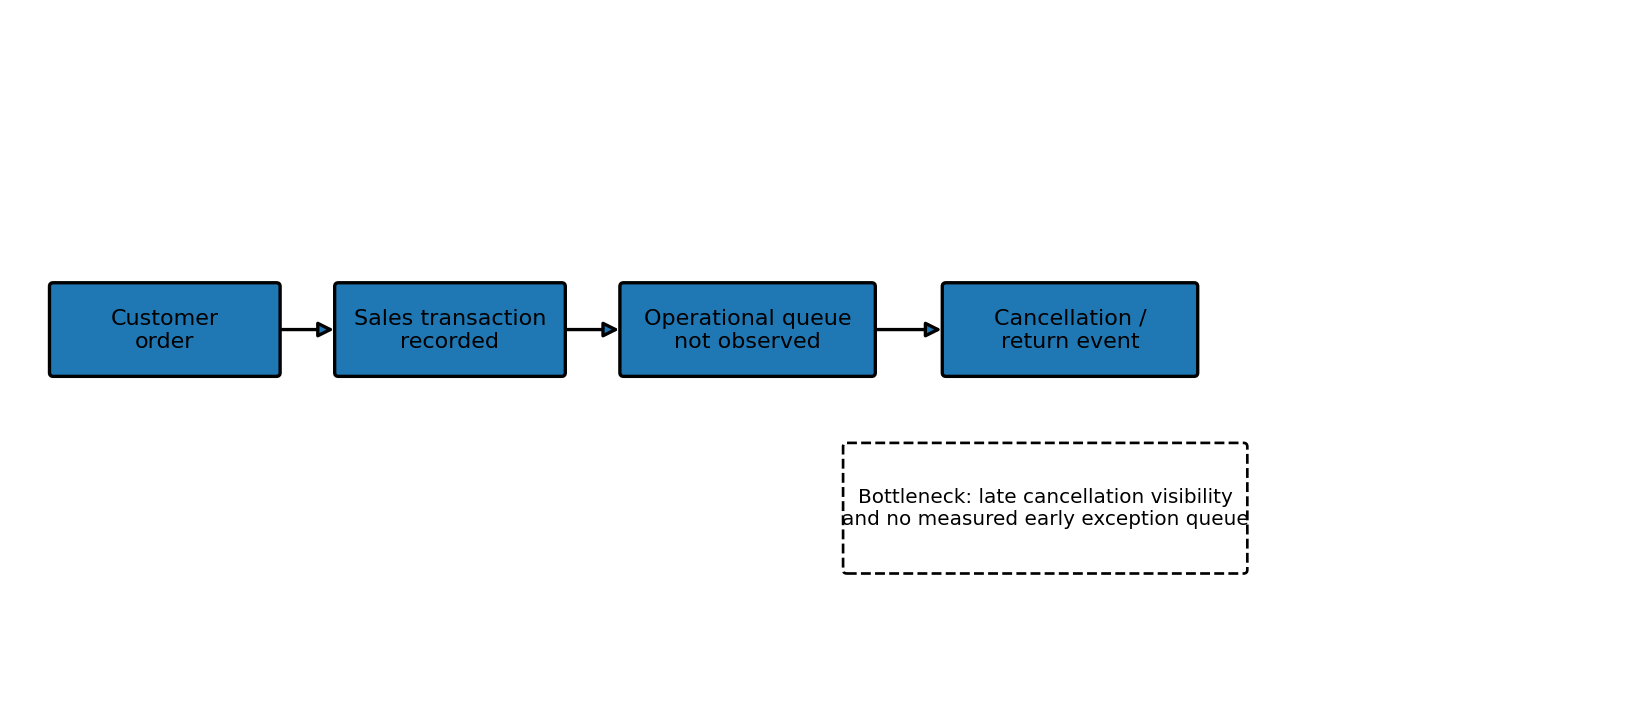
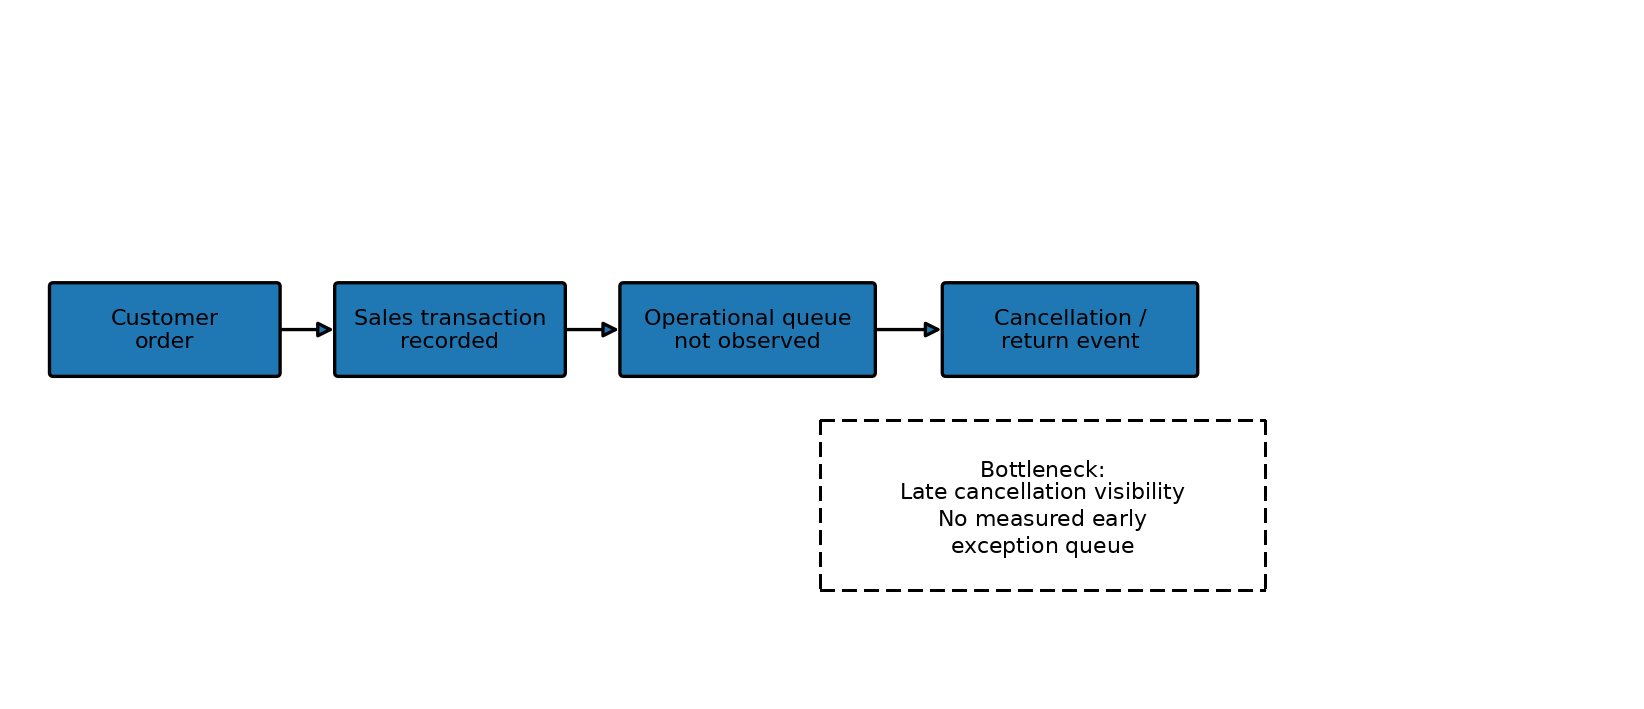
Polish Order IQ for final submission

Changed region(s): [[0.4964, 0.5896, 0.7755, 0.7757], [0.4964, 0.8068, 0.7755, 0.8378]]

diff --git a/app.py b/app.py
@@ -128,7 +128,7 @@ with tab1:
 
 with tab2:
     st.subheader("Findings and Recommendations")
-    st.caption("These statements are generated from the loaded dataset. In real-data mode they are suitable for your project report; in demo mode they are explicitly illustrative.")
+    st.caption("These findings are calculated from the loaded dataset; demo-mode results are explicitly illustrative.")
 
     # Build cancellation outcome for descriptive findings only.
     finding_orders = orders.copy()

diff --git a/README.md b/README.md
@@ -4,13 +4,14 @@
 
 **Live demo:** [Order IQ — Live Demo](https://order-iq-fh7nbrrnmj768bchpd7rsl.streamlit.app/)
 
-**Dataset:** UCI Online Retail, 541,909 transaction lines covering 1 Dec 2010–9 Dec 2011. UCI documents `C`-prefixed invoice numbers as cancellation records.
+**Dataset:** UCI Online Retail contains 541,909 source transaction lines covering 1 Dec 2010–9 Dec 2011. UCI documents `C`-prefixed invoice numbers as cancellation records.
 
 ## Real-data findings
 
 The analysis below was generated from the real UCI Online Retail data, not synthetic demo data.
 
 - **Transaction lines:** 541,907 loaded transaction lines
+- **Data-cleaning difference:** 2 source rows were excluded during validation/cleaning, so the application reports 541,907 loaded transaction lines.
 - **Genuine sales orders:** 20,726
 - **Matched cancellation-to-order pairs:** 1,296
 - **Matched cancellation rate:** 5.824% of genuine sales orders (**lower-bound estimate**)
@@ -46,8 +47,6 @@ The held-out test set contains 3,203 eligible orders and 189 observed cancellati
 | 10% | 320 | 50 | 26.5% | 6.4 |
 | 20% | 640 | 75 | 39.7% | 8.5 |
 | 30% | 960 | 96 | 50.8% | 10.0 |
-
-> **Interview-ready statement:** In time-held-out back-testing on the UCI data, reviewing the riskiest 10% of eligible orders captured 26.5% of eventual cancellations.
 
 This is historical back-testing. It does not establish that the same capture rate will hold after deployment.
 
@@ -157,7 +156,7 @@ The script intentionally fails if the loader falls back to synthetic data, preve
 
 ## Deployment
 
-Streamlit Community Cloud deploys from a GitHub repository by selecting the repository, branch and `app.py` entrypoint. After deployment, replace the placeholder live URL above with the actual `streamlit.app` URL.
+Streamlit Community Cloud deploys this repository using `app.py` as the entrypoint. The live application is linked above.
 
 ## Dataset citation
 
